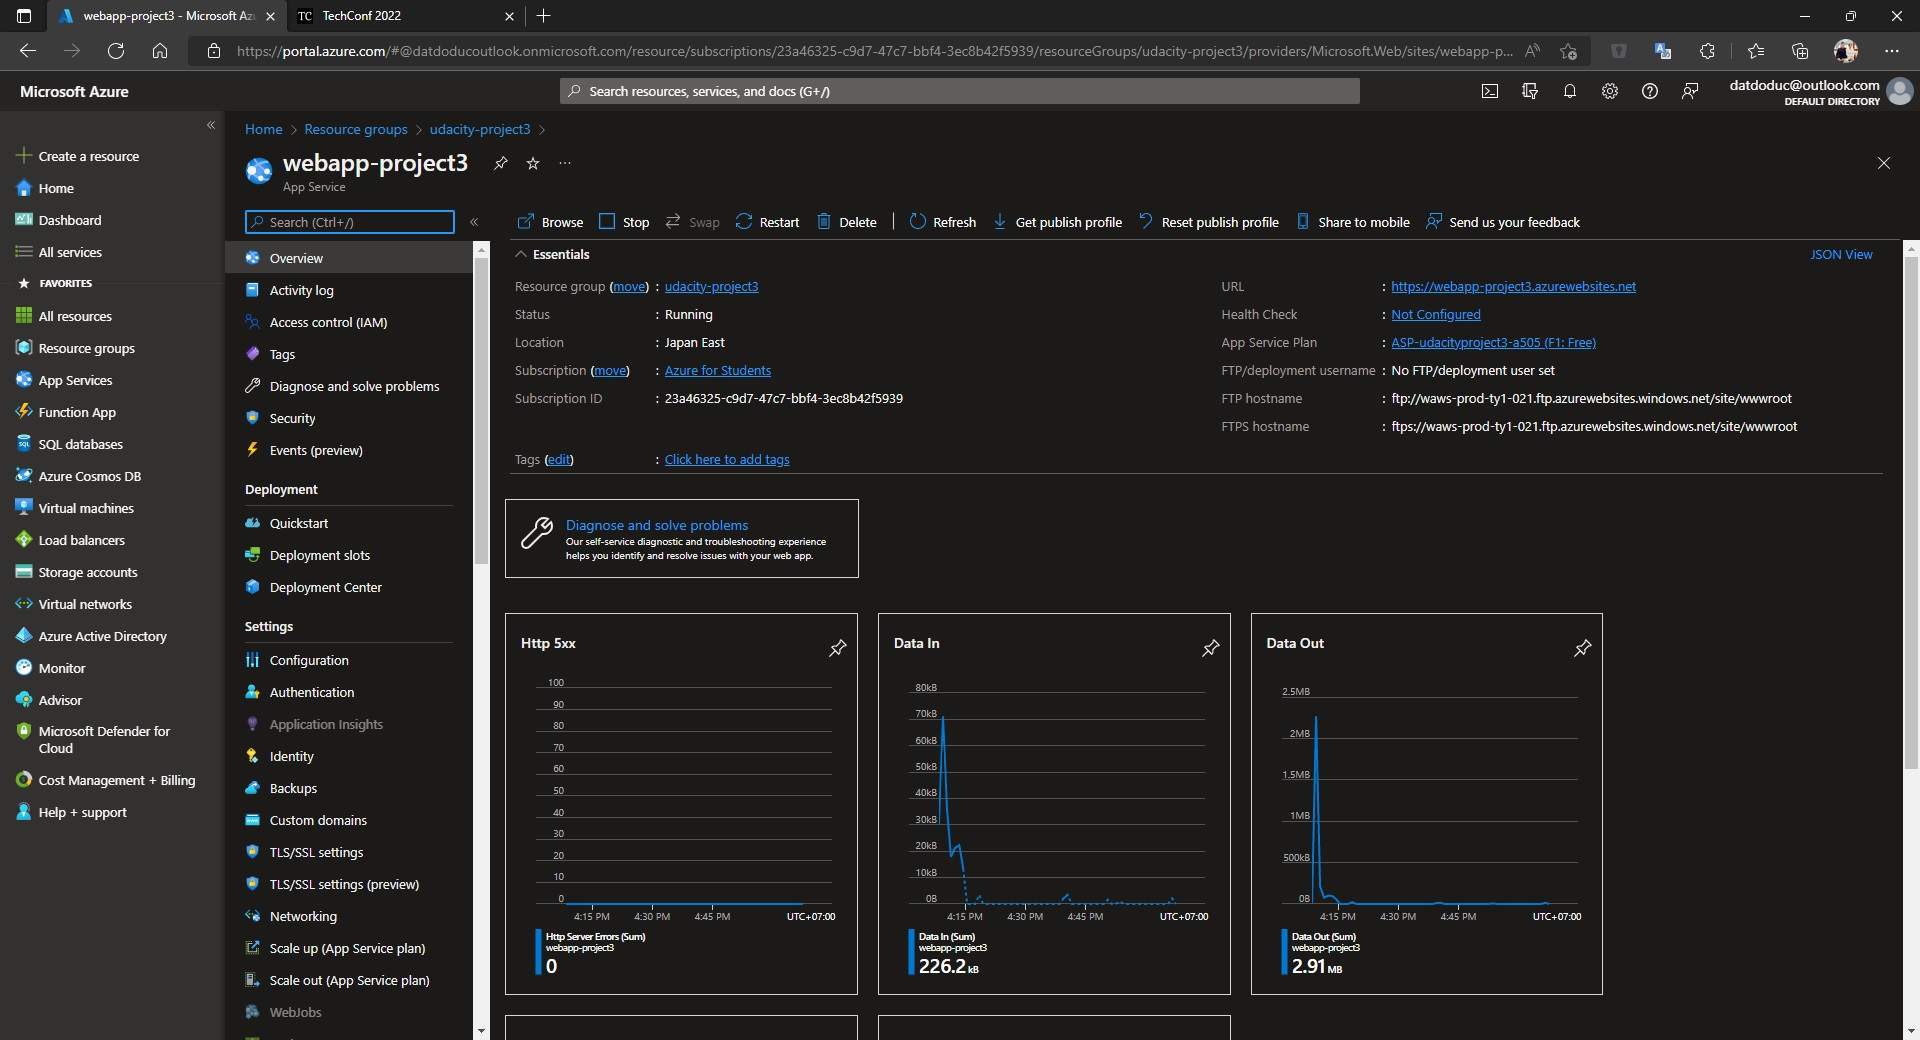
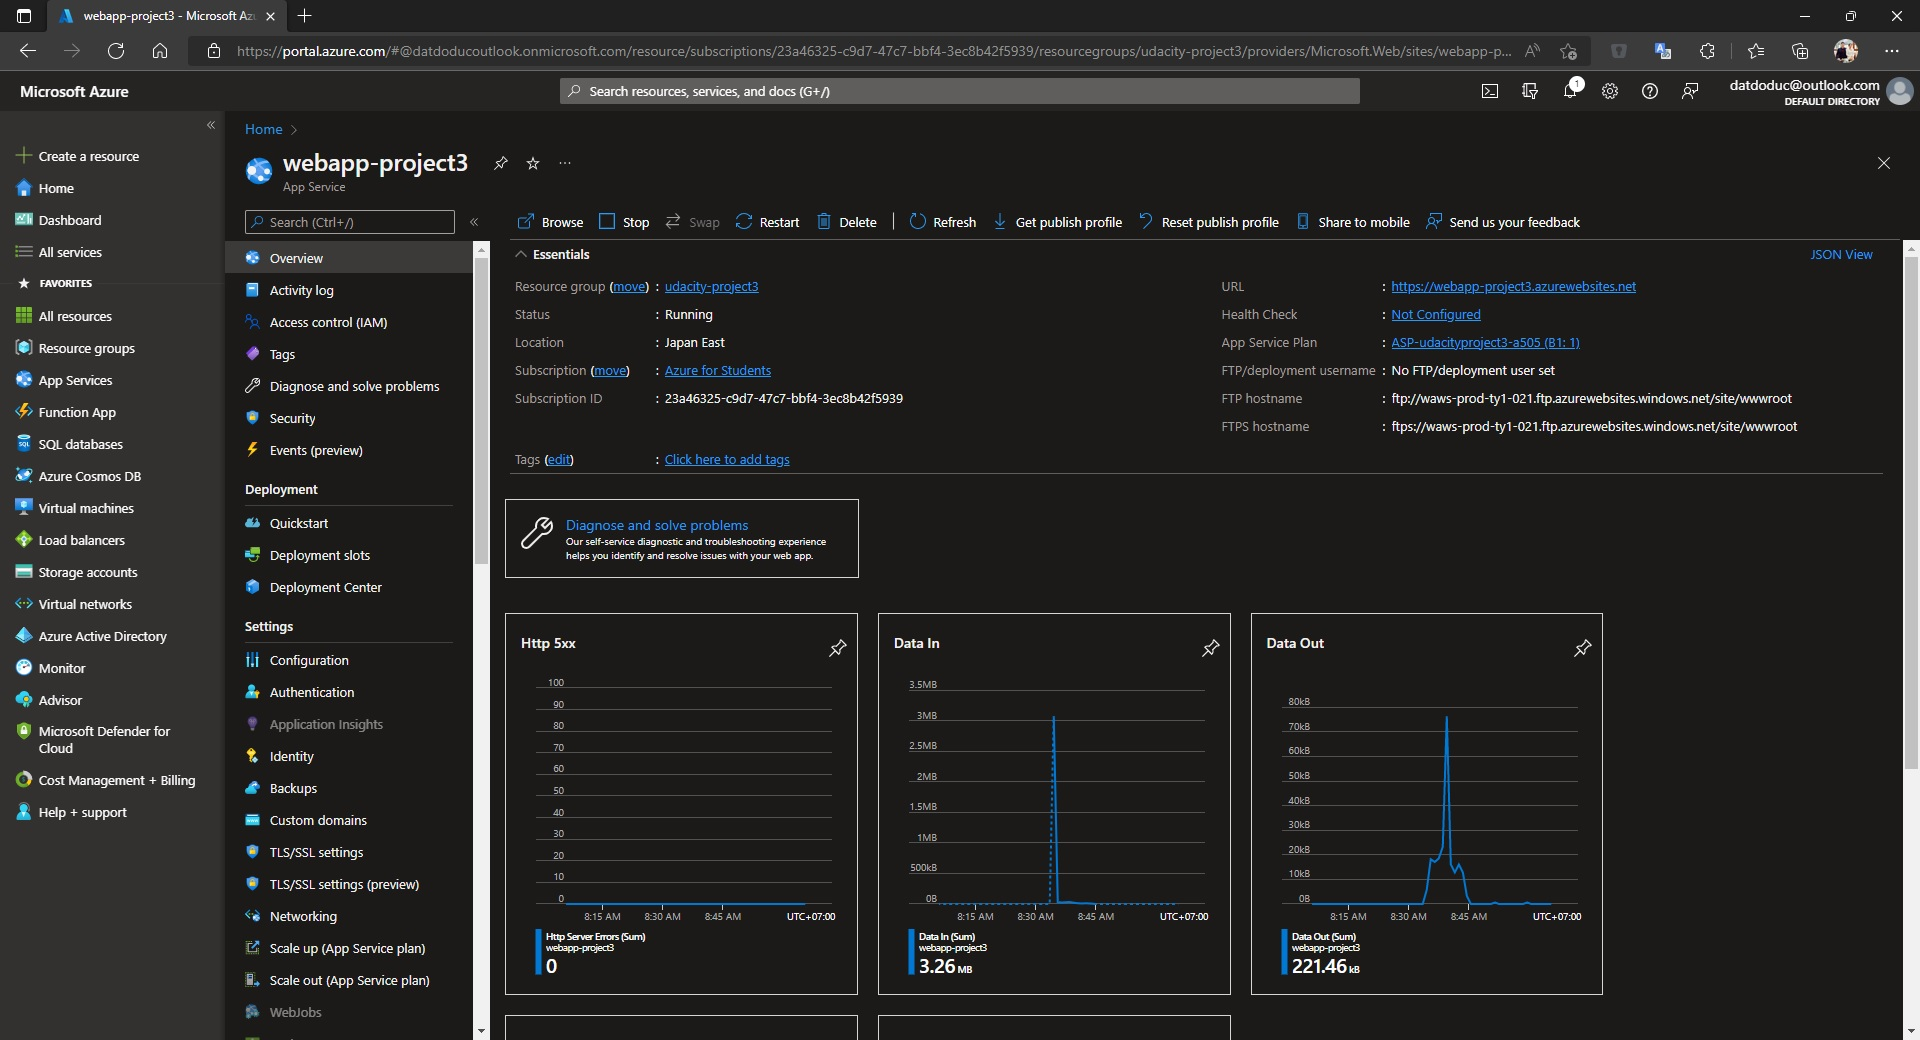
update prọject

diff --git a/README.md b/README.md
@@ -63,9 +63,14 @@ Complete a month cost analysis of each Azure resource to give an estimate total 
 
 | Azure Resource | Service Tier | Monthly Cost |
 | ------------ | ------------ | ------------ |
-| *Azure Postgres Database* |     |              |
-| *Azure Service Bus*   |         |              |
-| ...                   |         |              |
+| *Azure Postgres Database* | Basic, 1 vCore(s), 5 GB | 38.56 USD |
+| *Azure Service Bus* | Basic | 0.05 USD |
+| *Azure App Service* | B1: Basic | 13.87 USD |
+| *Azure Functions* | Consumption, Free Grant (Per Month): 400,000 GB-s and 1 million executions | ~0 USD |
 
 ## Architecture Explanation
-This is a placeholder section where you can provide an explanation and reasoning for your architecture selection for both the Azure Web App and Azure Function.
+- Migrate the PostgreSQL database to an Azure Postgres database with Basic pricing tier, 1 vCore(s), 5 GB since the data is not too much. Get rid of on-premise SQL server. The monthly cost is 13.87$ but we do not have to care about the hardware and management cost.
+- Migrate the current web app to Azure App Service so that it will be scalable to handle user load at peak time. I choose Basic tier to get custom domain and able to scale up to 3 instances with monthly cost is just 13.87$.
+- The Azure Function ServiceBusQueueFunc handle the time consumption task that looping through all attendees to send notification emails. So that it prevent the HTTP timeout excetion in web app when there is too many attendees. 
+The Azure Functions go with Consumption pricing tier, it got Free Grant per month of 400,000 GB-s and 1 million executions. So if the admin just sends out < 1 million notifications/month and data transfer < 400,000 GB-s, it is basically free to use azure function.
+- Azure Service Bus Queue was used to communicate between the web and the function. When admin send an notification to attendees, web app send a message to service bus queue client contain the notification ID. The Azure function will be trigger by this service bus queue message and do the time consumption task. Monthly cost of Azure Service Bus is very cheap for Basic tier (0.05$), which is enough to run this application.
